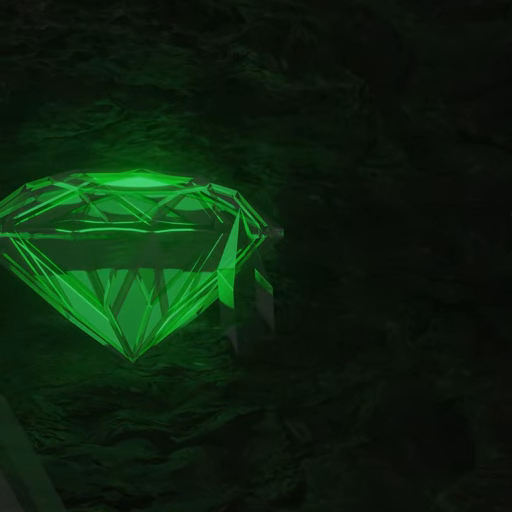
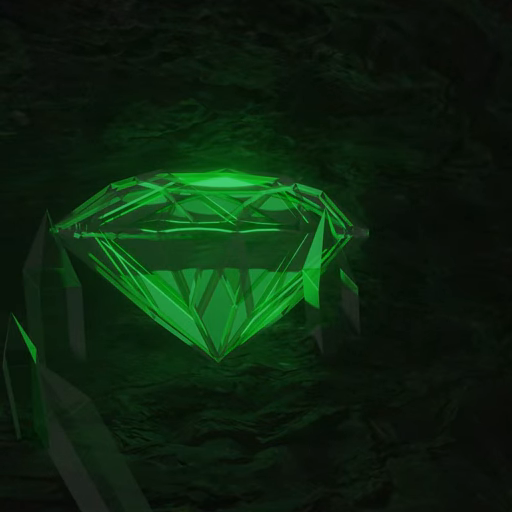
Search input: kill native search-field focus ring; gem: re-crop center
SearchInput
- Add appearance:none to the search input. Without it, Chromium draws
  a focus ring sized to the input's intrinsic search-field content
  area, which appeared as a separate emerald-stroked rounded rectangle
  inside the panel — doubled border, mismatched width.
- Override :focus-visible on the field (panel handles focus state via
  :focus-within already).

Beacon
- Re-encode gem with crop window shifted left in source (720,180 from
  1020,180), so the gem floats centered in the 512x512 frame instead
  of clipped against the left edge.

diff --git a/src/components/search/SearchInput.css b/src/components/search/SearchInput.css
@@ -62,6 +62,18 @@
   color: var(--text);
   letter-spacing: var(--tr-tight);
   outline: none;
+  /* Kill the native search-field box: without this, Chromium draws an
+     intrinsic-content-width focus ring inside its rounded chrome,
+     which doubles up against our panel's own focus-within border. */
+  -webkit-appearance: none;
+  appearance: none;
+}
+
+/* The panel renders the focus state via :focus-within (border + halo),
+   so don't let the global :focus-visible rule layer a second outline
+   onto the input itself. */
+.search-hero__field:focus-visible {
+  outline: none;
 }
 
 /* Match typed-text typography exactly — only color differs.